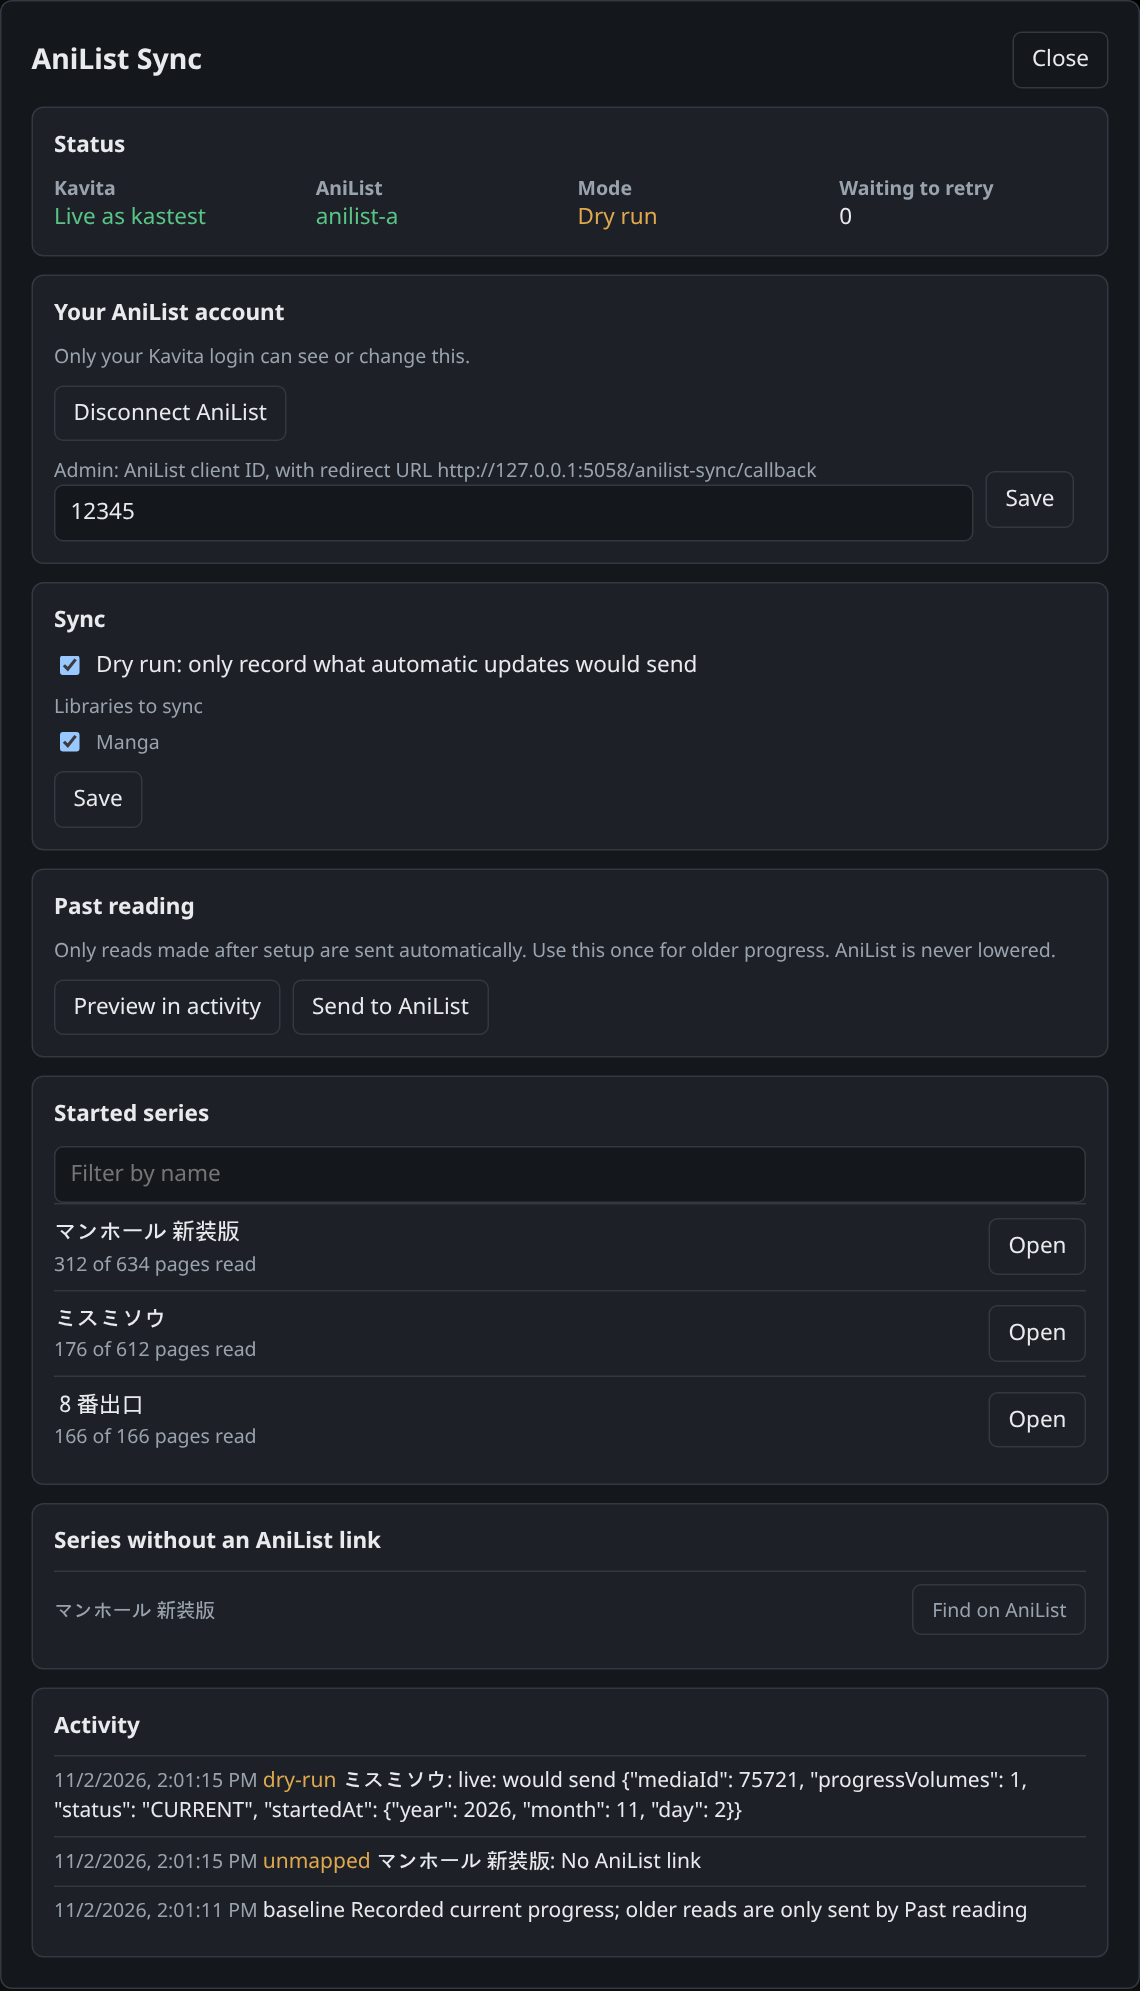
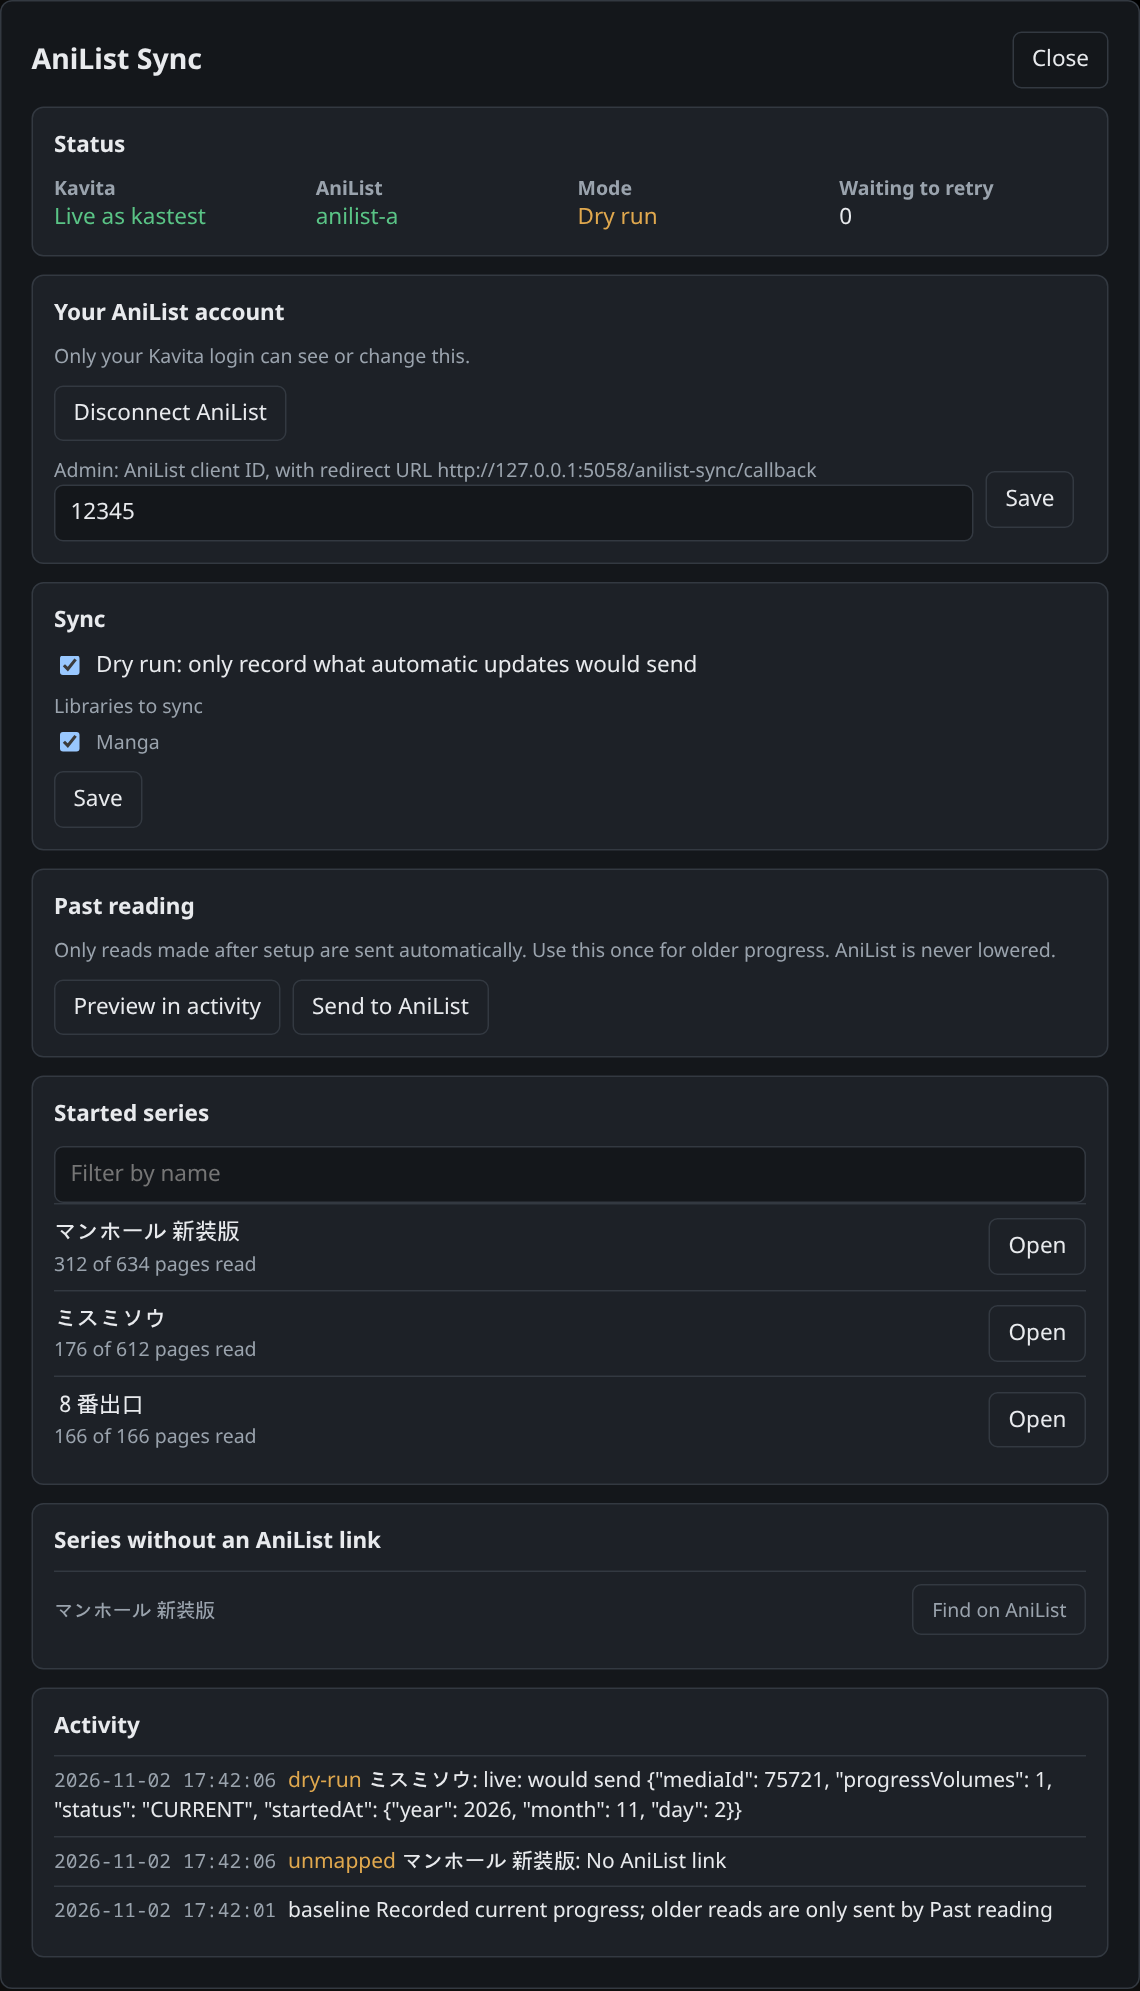
Add activity scroll box, ISO timestamps and clearer progress edits

Changed region(s): [[0.0614, 0.8719, 0.9211, 0.9653], [0.0614, 0.8719, 0.3684, 0.9031]]

diff --git a/kavita_anilist_sync/static/panel.js b/kavita_anilist_sync/static/panel.js
@@ -16,6 +16,11 @@
     node.append(...children);
     return node;
   };
+  const formatTime = seconds => {
+    const d = new Date(seconds * 1000);
+    const two = value => String(value).padStart(2, "0");
+    return `${d.getFullYear()}-${two(d.getMonth() + 1)}-${two(d.getDate())} ${two(d.getHours())}:${two(d.getMinutes())}:${two(d.getSeconds())}`;
+  };
   const TONE = {updated: "ok", error: "bad", "dry-run": "warn", unmapped: "warn"};
   const STYLE = `
     :host{all:initial}*{box-sizing:border-box}
@@ -29,6 +34,8 @@
     .row{display:flex;gap:8px;flex-wrap:wrap;align-items:center;margin-top:10px}.grow{flex:1;min-width:140px}
     .check{display:flex;gap:8px;align-items:center;margin:6px 0}.stats{display:grid;grid-template-columns:repeat(auto-fit,minmax(150px,1fr));gap:10px}.stats b{display:block;font-size:13px;color:#9aa3ad;font-weight:600}
     .item{display:flex;gap:10px;align-items:center;padding:8px 0;border-top:1px solid #333941;flex-wrap:wrap}.item>div{flex:1;min-width:150px;overflow-wrap:anywhere}.item img{width:36px;height:52px;object-fit:cover;border-radius:3px}
+    .time{font-family:ui-monospace,SFMono-Regular,Menlo,Consolas,monospace}
+    .scroll{max-height:320px;overflow-y:auto;overscroll-behavior:contain}
     .log{overflow-wrap:anywhere;padding:6px 0;border-top:1px solid #333941;font-size:14px}`;
 
   let host = null;
@@ -90,7 +97,9 @@
       const filter = el("input", {type: "text", placeholder: "Filter by name"});
       filter.setAttribute("aria-label", "Filter by name");
       const unlinked = el("div", {className: "hint"});
-      const activity = el("div");
+      const activity = el("div", {className: "scroll", tabIndex: 0});
+      activity.setAttribute("role", "log");
+      activity.setAttribute("aria-label", "Activity");
       const preview = el("button", {textContent: "Preview in activity"});
       const send = el("button", {textContent: "Send to AniList"});
       const pastResult = el("span");
@@ -161,7 +170,7 @@
         me = state; showStatus();
         preview.disabled = send.disabled = me.backfill_running;
         activity.replaceChildren(...log.slice(0, 40).map(row => el("div", {className: "log"},
-          el("span", {className: "hint", textContent: `${new Date(row.at * 1000).toLocaleString()} `}),
+          el("span", {className: "hint time", textContent: `${formatTime(row.at)} `}),
           el("span", {className: TONE[row.kind] || "", textContent: `${row.kind} `}),
           el("span", {textContent: `${row.name ? row.name + ": " : ""}${row.detail}`}))));
         if (!log.length) activity.replaceChildren(hint("Nothing yet."));
